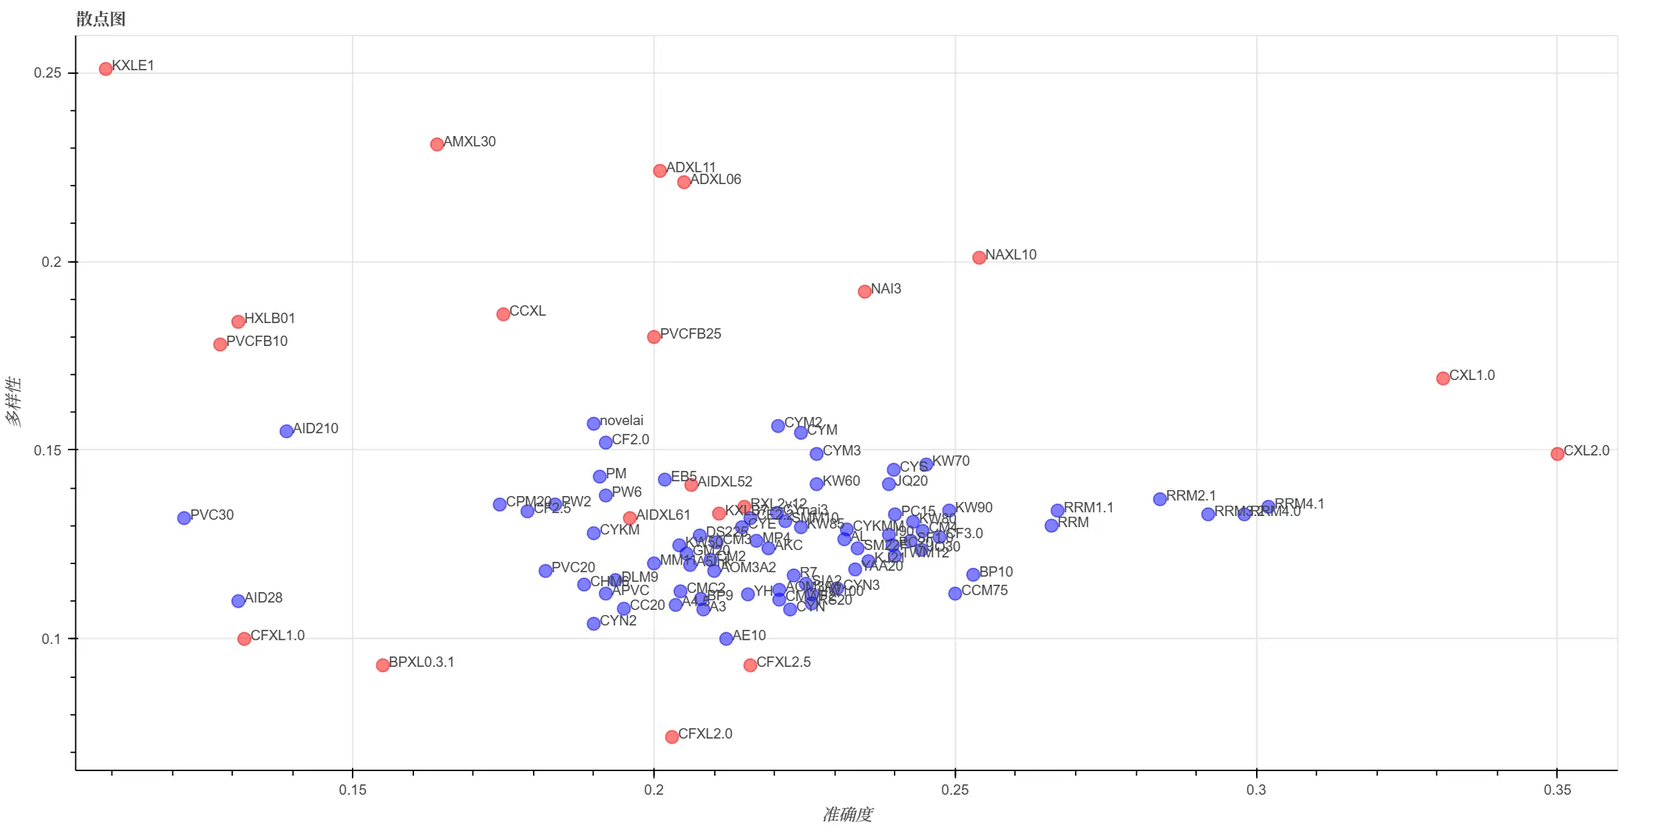
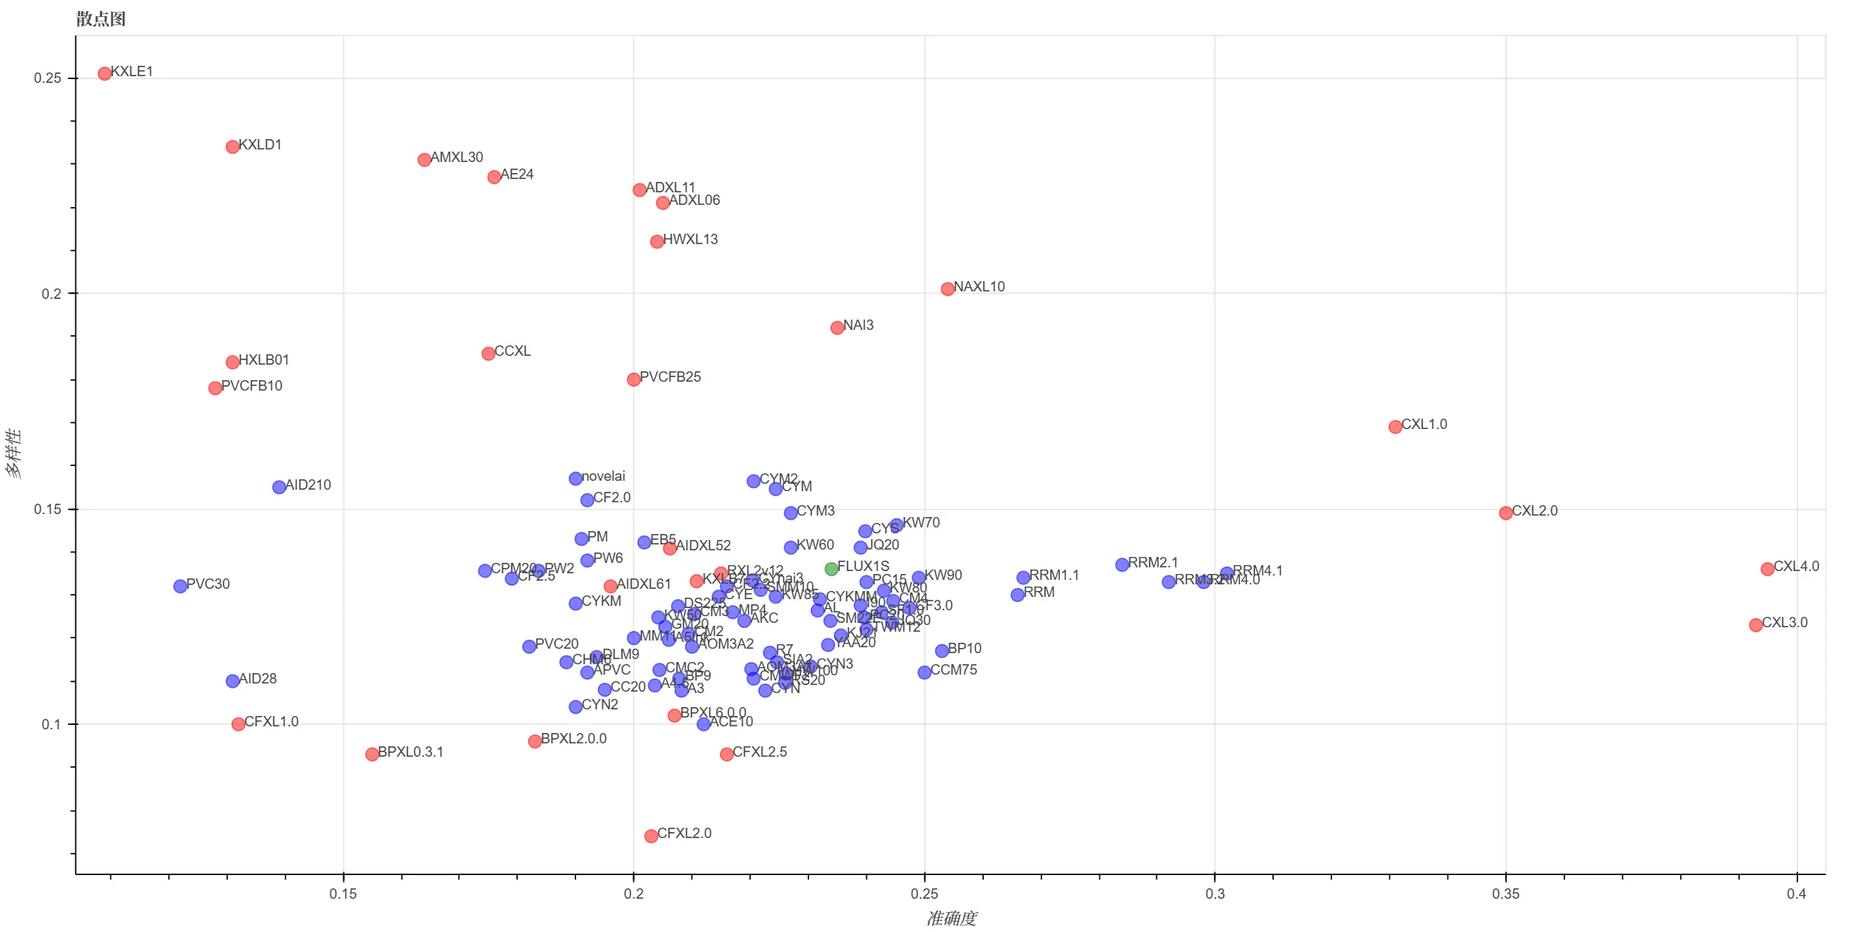
更新readme

diff --git a/readme.md b/readme.md
@@ -26,48 +26,48 @@
 <sub>
 <sub>
 
-|                          | A5Ink   | AL        | AOM3A1    | BP10      | CF3.0     | CM4       | CYS       | KW70    | SF1.0     | CXL3.0    | KXLB7     | NAI3      | NAXL10    |
-|:-------------------------|:--------|:----------|:----------|:----------|:----------|:----------|:----------|:--------|:----------|:----------|:----------|:----------|:----------|
-| 艺术破格                 | 0.151   | 0.132     | 0.092     | 0.188     | 0.18      | 0.147     | 0.125     | 0.121   | 0.195     | **0.379** | 0.18      | **0.213** | **0.331** |
-| 人物-动作                | 0.493   | 0.531     | 0.511     | 0.58      | 0.557     | 0.538     | 0.555     | 0.495   | 0.543     | **0.823** | 0.539     | **0.637** | **0.718** |
-| 人物-全身装饰            | 0.664   | 0.602     | 0.734     | 0.773     | 0.758     | 0.719     | 0.789     | 0.773   | 0.695     | **0.984** | **0.875** | 0.68      | **0.953** |
-| 人物-胸部                | 0.419   | 0.431     | 0.497     | 0.457     | 0.458     | 0.413     | 0.431     | 0.358   | 0.418     | **0.756** | 0.374     | **0.578** | **0.64**  |
-| 人物-衣装                | 0.751   | 0.777     | 0.783     | **0.804** | 0.802     | 0.802     | 0.773     | 0.718   | 0.785     | **0.895** | 0.771     | **0.804** | **0.816** |
-| 人物-摆位                | 0.514   | 0.509     | 0.491     | 0.604     | 0.616     | 0.535     | 0.562     | 0.528   | 0.613     | **0.838** | **0.701** | 0.56      | **0.701** |
-| 人物-耳朵                | 0.845   | 0.848     | 0.842     | 0.839     | 0.884     | 0.866     | 0.815     | 0.815   | **0.914** | **0.938** | 0.821     | 0.842     | **0.905** |
-| 人物-面部                | 0.436   | 0.426     | 0.414     | 0.503     | 0.514     | 0.458     | 0.419     | 0.432   | 0.462     | **0.784** | 0.457     | **0.584** | **0.672** |
-| 人物-头发                | 0.633   | 0.606     | 0.581     | 0.678     | 0.678     | 0.634     | 0.555     | 0.546   | 0.597     | **0.888** | 0.61      | **0.688** | **0.846** |
-| 人物-头部饰品            | 0.736   | 0.741     | 0.705     | 0.814     | 0.814     | 0.778     | 0.77      | 0.729   | **0.82**  | **0.911** | 0.782     | 0.715     | **0.868** |
-| 人物-类型                | 0.661   | 0.649     | 0.644     | 0.725     | 0.688     | 0.651     | 0.67      | 0.596   | 0.68      | **0.817** | **0.763** | 0.616     | **0.779** |
-| 人物-下身装饰            | 0.71    | 0.726     | 0.749     | 0.76      | **0.781** | 0.747     | 0.742     | 0.698   | 0.74      | **0.918** | 0.748     | 0.769     | **0.801** |
-| 人物-脖子                | 0.768   | 0.794     | 0.786     | 0.814     | 0.808     | **0.822** | 0.75      | 0.724   | 0.753     | **0.918** | 0.74      | 0.806     | **0.898** |
-| 人物-鞋袜                | 0.679   | 0.696     | 0.681     | 0.732     | 0.742     | 0.732     | 0.708     | 0.699   | 0.726     | **0.874** | 0.713     | **0.77**  | **0.818** |
-| 人物-上身装饰            | 0.728   | 0.769     | 0.737     | **0.79**  | 0.783     | 0.77      | 0.747     | 0.698   | 0.758     | **0.916** | 0.728     | 0.717     | **0.84**  |
-| 人文景观-建筑物     | 0.938   | **0.966** | 0.903     | 0.96      | 0.886     | 0.932     | 0.955     | 0.943   | **0.966** | 0.938     | **0.989** | 0.415     | **0.966** |
-| 人文景观-谷制品     | 0.688   | 0.713     | 0.713     | 0.825     | 0.8       | 0.787     | 0.938     | 0.825   | **1.0**   | **1.0**   | **1.0**   | 0.325     | **1.0**   |
-| 人文景观-饮料       | 0.836   | 0.859     | 0.781     | 0.898     | 0.812     | 0.844     | 0.914     | 0.844   | 0.938     | **0.961** | **0.977** | 0.586     | **0.945** |
-| 人文景观-水果       | 0.868   | 0.868     | 0.889     | 0.847     | 0.889     | 0.896     | 0.931     | 0.854   | **0.986** | 0.965     | **0.993** | 0.368     | **0.972** |
-| 人文景观-主食       | 0.762   | 0.787     | 0.725     | 0.825     | 0.8       | 0.775     | 0.875     | 0.838   | 0.825     | **1.0**   | **0.988** | 0.287     | **1.0**   |
-| 人文景观-肉类与海鲜 | 0.922   | 0.734     | 0.906     | 0.891     | **0.984** | 0.953     | 0.906     | 0.828   | **1.0**   | **1.0**   | **0.984** | 0.453     | **0.984** |
-| 人文景观-糖果零食   | 0.8     | 0.819     | 0.722     | 0.878     | 0.859     | 0.825     | 0.863     | 0.838   | **0.894** | **0.944** | 0.866     | 0.566     | **0.972** |
-| 人文景观-蔬菜与香料 | 0.938   | 0.906     | 0.896     | 0.969     | 0.938     | 0.885     | **0.979** | 0.948   | **0.979** | 0.969     | 0.896     | 0.802     | **1.0**   |
-| 人文景观-室内       | 0.991   | **1.0**   | 0.991     | **1.0**   | 0.92      | 0.991     | **1.0**   | 0.973   | 0.991     | **1.0**   | **1.0**   | 0.812     | **1.0**   |
-| 人文景观-室外       | **1.0** | **1.0**   | 0.958     | **1.0**   | **1.0**   | **1.0**   | **1.0**   | **1.0** | **1.0**   | 0.99      | **1.0**   | 0.417     | 0.99      |
-| 构图-背景                | 0.861   | 0.885     | 0.803     | **0.933** | 0.894     | 0.904     | 0.899     | 0.856   | 0.827     | **0.947** | 0.875     | 0.774     | **0.938** |
-| 构图-打码方式            | 0.151   | 0.219     | **0.359** | 0.198     | 0.219     | 0.135     | 0.312     | 0.151   | 0.193     | **0.391** | 0.266     | 0.245     | **0.339** |
-| 构图-色彩                | 0.442   | 0.388     | 0.304     | **0.721** | 0.704     | 0.517     | 0.421     | 0.358   | 0.492     | **0.738** | **0.787** | 0.613     | 0.542     |
-| 构图-构图方式            | 0.276   | 0.344     | 0.292     | 0.396     | 0.339     | 0.375     | 0.375     | 0.26    | 0.339     | **0.62**  | 0.328     | **0.526** | **0.604** |
-| 构图-制图特效            | 0.551   | 0.643     | 0.467     | 0.713     | **0.776** | 0.643     | 0.662     | 0.592   | 0.68      | **0.794** | 0.673     | 0.449     | **0.801** |
-| 构图-图片类型            | 0.435   | 0.386     | 0.332     | 0.416     | 0.383     | 0.397     | 0.41      | 0.429   | 0.351     | **0.617** | **0.448** | 0.435     | **0.573** |
-| 构图-视角                | 0.651   | 0.618     | 0.588     | **0.713** | 0.706     | 0.654     | 0.662     | 0.706   | 0.71      | **0.824** | 0.662     | 0.632     | **0.732** |
-| 构图-画风                | 0.221   | 0.138     | 0.192     | 0.275     | 0.283     | 0.2       | 0.229     | 0.217   | 0.175     | **0.471** | **0.533** | **0.483** | 0.425     |
-| 物品                     | 0.792   | 0.765     | 0.804     | 0.881     | 0.878     | **0.893** | 0.824     | 0.735   | 0.839     | **0.976** | 0.845     | 0.812     | **0.902** |
-| 自然景观-花卉            | 0.895   | 0.92      | 0.855     | **0.989** | 0.943     | 0.972     | 0.949     | 0.852   | 0.983     | **0.997** | **1.0**   | 0.668     | **0.989** |
-| 自然景观-室外       | 0.943   | 0.953     | 0.927     | **1.0**   | **0.995** | 0.964     | 0.958     | 0.969   | 0.99      | **0.995** | **1.0**   | 0.484     | 0.99      |
-| 自然景观-气象       | 0.891   | 0.922     | 0.87      | **0.974** | 0.87      | 0.885     | 0.906     | 0.891   | 0.901     | 0.964     | **1.0**   | 0.578     | **0.984** |
-| 限制级-成年限定          | 0.288   | 0.268     | **0.518** | 0.379     | 0.371     | 0.211     | 0.392     | 0.241   | 0.347     | **0.689** | 0.387     | 0.349     | **0.485** |
-| 限制级-限制级            | 0.504   | 0.444     | 0.597     | 0.532     | 0.58      | 0.442     | 0.539     | 0.403   | 0.442     | **0.735** | **0.621** | 0.457     | **0.619** |
-| 总体                     | 0.607   | 0.613     | 0.613     | **0.671** | 0.667     | 0.631     | 0.629     | 0.586   | 0.64      | **0.84**  | 0.652     | 0.635     | **0.765** |
+|                          | A5Ink   | AL        | AOM3A1    | BP10      | CF3.0     | CM4       | CYS       | FLUX1S    | KW70    | NAI3      | SF1.0     | CXL4.0    | KXLB7     | NAXL10    |
+|:-------------------------|:--------|:----------|:----------|:----------|:----------|:----------|:----------|:----------|:--------|:----------|:----------|:----------|:----------|:----------|
+| 艺术破格                 | 0.142   | 0.125     | 0.087     | 0.177     | 0.17      | 0.139     | 0.118     | 0.163     | 0.115   | **0.201** | 0.184     | **0.333** | 0.17      | **0.312** |
+| 人物-动作                | 0.49    | 0.527     | 0.507     | 0.576     | 0.553     | 0.534     | 0.551     | 0.43      | 0.491   | **0.632** | 0.54      | **0.831** | 0.535     | **0.713** |
+| 人物-全身装饰            | 0.664   | 0.602     | 0.734     | 0.773     | 0.758     | 0.719     | 0.789     | 0.555     | 0.773   | 0.68      | 0.695     | **0.992** | **0.875** | **0.953** |
+| 人物-胸部                | 0.419   | 0.431     | 0.497     | 0.457     | 0.458     | 0.413     | 0.431     | 0.229     | 0.358   | **0.578** | 0.418     | **0.765** | 0.374     | **0.64**  |
+| 人物-衣装                | 0.751   | 0.777     | 0.783     | **0.804** | 0.802     | 0.802     | 0.773     | 0.729     | 0.718   | **0.804** | 0.785     | **0.89**  | 0.771     | **0.816** |
+| 人物-摆位                | 0.514   | 0.509     | 0.491     | 0.604     | 0.616     | 0.535     | 0.562     | 0.458     | 0.528   | 0.56      | 0.613     | **0.831** | **0.701** | **0.701** |
+| 人物-耳朵                | 0.845   | 0.848     | 0.842     | 0.839     | 0.884     | 0.866     | 0.815     | 0.696     | 0.815   | 0.842     | **0.914** | **0.929** | 0.821     | **0.905** |
+| 人物-面部                | 0.434   | 0.423     | 0.412     | 0.5       | 0.511     | 0.456     | 0.416     | 0.324     | 0.43    | **0.58**  | 0.459     | **0.771** | 0.455     | **0.668** |
+| 人物-头发                | 0.633   | 0.606     | 0.581     | 0.678     | 0.678     | 0.634     | 0.555     | 0.59      | 0.546   | **0.688** | 0.597     | **0.866** | 0.61      | **0.846** |
+| 人物-头部饰品            | 0.736   | 0.741     | 0.705     | 0.814     | 0.814     | 0.778     | 0.77      | 0.682     | 0.729   | 0.715     | **0.82**  | **0.906** | 0.782     | **0.868** |
+| 人物-类型                | 0.651   | 0.639     | 0.634     | 0.713     | 0.677     | 0.641     | 0.66      | 0.588     | 0.587   | 0.607     | 0.669     | **0.81**  | **0.751** | **0.767** |
+| 人物-下身装饰            | 0.71    | 0.726     | 0.749     | 0.76      | **0.781** | 0.747     | 0.742     | 0.565     | 0.698   | 0.769     | 0.74      | **0.9**   | 0.748     | **0.801** |
+| 人物-脖子                | 0.768   | 0.794     | 0.786     | 0.814     | 0.808     | **0.822** | 0.75      | 0.674     | 0.724   | 0.806     | 0.753     | **0.931** | 0.74      | **0.898** |
+| 人物-鞋袜                | 0.679   | 0.696     | 0.681     | 0.732     | 0.742     | 0.732     | 0.708     | 0.628     | 0.699   | **0.77**  | 0.726     | **0.878** | 0.713     | **0.818** |
+| 人物-上身装饰            | 0.728   | 0.769     | 0.737     | **0.79**  | 0.783     | 0.77      | 0.747     | 0.632     | 0.698   | 0.717     | 0.758     | **0.893** | 0.728     | **0.84**  |
+| 人文景观-建筑物     | 0.938   | **0.966** | 0.903     | 0.96      | 0.886     | 0.932     | 0.955     | **0.977** | 0.943   | 0.415     | **0.966** | 0.955     | **0.989** | **0.966** |
+| 人文景观-谷制品     | 0.688   | 0.713     | 0.713     | 0.825     | 0.8       | 0.787     | 0.938     | 0.738     | 0.825   | 0.325     | **1.0**   | **1.0**   | **1.0**   | **1.0**   |
+| 人文景观-饮料       | 0.836   | 0.859     | 0.781     | 0.898     | 0.812     | 0.844     | 0.914     | 0.82      | 0.844   | 0.586     | 0.938     | **0.953** | **0.977** | **0.945** |
+| 人文景观-水果       | 0.868   | 0.868     | 0.889     | 0.847     | 0.889     | 0.896     | 0.931     | 0.944     | 0.854   | 0.368     | **0.986** | 0.951     | **0.993** | **0.972** |
+| 人文景观-主食       | 0.762   | 0.787     | 0.725     | 0.825     | 0.8       | 0.775     | 0.875     | 0.8       | 0.838   | 0.287     | 0.825     | **1.0**   | **0.988** | **1.0**   |
+| 人文景观-肉类与海鲜 | 0.922   | 0.734     | 0.906     | 0.891     | **0.984** | 0.953     | 0.906     | **1.0**   | 0.828   | 0.453     | **1.0**   | **0.984** | **0.984** | **0.984** |
+| 人文景观-糖果零食   | 0.8     | 0.819     | 0.722     | 0.878     | 0.859     | 0.825     | 0.863     | 0.775     | 0.838   | 0.566     | **0.894** | **0.953** | 0.866     | **0.972** |
+| 人文景观-蔬菜与香料 | 0.938   | 0.906     | 0.896     | 0.969     | 0.938     | 0.885     | **0.979** | 0.833     | 0.948   | 0.802     | **0.979** | 0.927     | 0.896     | **1.0**   |
+| 人文景观-室内       | 0.991   | **1.0**   | 0.991     | **1.0**   | 0.92      | 0.991     | **1.0**   | 0.991     | 0.973   | 0.812     | 0.991     | 0.991     | **1.0**   | **1.0**   |
+| 人文景观-室外       | **1.0** | **1.0**   | 0.958     | **1.0**   | **1.0**   | **1.0**   | **1.0**   | **1.0**   | **1.0** | 0.417     | **1.0**   | 0.99      | **1.0**   | 0.99      |
+| 构图-背景                | 0.861   | 0.885     | 0.803     | **0.933** | 0.894     | 0.904     | 0.899     | 0.784     | 0.856   | 0.774     | 0.827     | **0.918** | 0.875     | **0.938** |
+| 构图-打码方式            | 0.151   | 0.219     | **0.359** | 0.198     | 0.219     | 0.135     | 0.312     | 0.021     | 0.151   | 0.245     | 0.193     | **0.396** | 0.266     | **0.339** |
+| 构图-色彩                | 0.414   | 0.363     | 0.285     | **0.676** | **0.66**  | 0.484     | 0.395     | 0.637     | 0.336   | 0.574     | 0.461     | 0.602     | **0.738** | 0.508     |
+| 构图-构图方式            | 0.276   | 0.344     | 0.292     | 0.396     | 0.339     | 0.375     | 0.375     | 0.193     | 0.26    | **0.526** | 0.339     | **0.599** | 0.328     | **0.604** |
+| 构图-制图特效            | 0.551   | 0.643     | 0.467     | 0.713     | **0.776** | 0.643     | 0.662     | 0.669     | 0.592   | 0.449     | 0.68      | **0.827** | 0.673     | **0.801** |
+| 构图-图片类型            | 0.417   | 0.37      | 0.318     | 0.398     | 0.367     | 0.38      | 0.393     | 0.242     | 0.411   | 0.417     | 0.336     | **0.591** | **0.432** | **0.549** |
+| 构图-视角                | 0.651   | 0.618     | 0.588     | **0.713** | 0.706     | 0.654     | 0.662     | 0.559     | 0.706   | 0.632     | 0.71      | **0.809** | 0.662     | **0.732** |
+| 构图-画风                | 0.221   | 0.138     | 0.192     | 0.275     | 0.283     | 0.2       | 0.229     | 0.275     | 0.217   | **0.483** | 0.175     | **0.487** | **0.533** | 0.425     |
+| 物品                     | 0.792   | 0.765     | 0.804     | 0.881     | 0.878     | **0.893** | 0.824     | 0.741     | 0.735   | 0.812     | 0.839     | **0.976** | 0.845     | **0.902** |
+| 自然景观-花卉            | 0.895   | 0.92      | 0.855     | **0.989** | 0.943     | 0.972     | 0.949     | 0.886     | 0.852   | 0.668     | 0.983     | **0.991** | **1.0**   | **0.989** |
+| 自然景观-室外       | 0.943   | 0.953     | 0.927     | **1.0**   | **0.995** | 0.964     | 0.958     | 0.974     | 0.969   | 0.484     | 0.99      | **0.995** | **1.0**   | 0.99      |
+| 自然景观-气象       | 0.891   | 0.922     | 0.87      | **0.974** | 0.87      | 0.885     | 0.906     | 0.917     | 0.891   | 0.578     | 0.901     | 0.953     | **1.0**   | **0.984** |
+| 限制级-成年限定          | 0.288   | 0.268     | **0.518** | 0.379     | 0.371     | 0.211     | 0.392     | 0.044     | 0.241   | 0.349     | 0.347     | **0.679** | 0.387     | **0.485** |
+| 限制级-限制级            | 0.504   | 0.444     | 0.597     | 0.532     | 0.58      | 0.442     | 0.539     | 0.162     | 0.403   | 0.457     | 0.442     | **0.707** | **0.621** | **0.619** |
+| 总体                     | 0.605   | 0.61      | 0.61      | **0.669** | 0.664     | 0.628     | 0.626     | 0.527     | 0.583   | 0.632     | 0.638     | **0.831** | 0.65      | **0.761** |
 
 </sub>
 </sub>
@@ -89,15 +89,15 @@
 <sub>
 <sub>
 
-|     |   A5Ink |    AL |   AOM3A1 | BP10      | CF3.0     |   CM4 |   CYS |   KW70 |   SF1.0 | CXL3.0    |   KXLB7 | NAI3      | NAXL10    |
-|----:|--------:|------:|---------:|:----------|:----------|------:|------:|-------:|--------:|:----------|--------:|:----------|:----------|
-|   2 |   0.477 | 0.497 |    0.481 | 0.546     | 0.54      | 0.513 | 0.513 |  0.487 |   0.527 | **0.703** |   0.494 | **0.576** | **0.616** |
-|   4 |   0.431 | 0.448 |    0.439 | 0.484     | 0.482     | 0.465 | 0.461 |  0.454 |   0.473 | **0.682** |   0.451 | **0.539** | **0.556** |
-|   8 |   0.346 | 0.381 |    0.363 | 0.409     | 0.406     | 0.391 | 0.385 |  0.395 |   0.393 | **0.608** |   0.375 | **0.459** | **0.464** |
-|  16 |   0.275 | 0.303 |    0.287 | 0.333     | 0.328     | 0.324 | 0.312 |  0.317 |   0.318 | **0.508** |   0.302 | **0.352** | **0.356** |
-|  32 |   0.207 | 0.232 |    0.221 | **0.253** | 0.245     | 0.245 | 0.24  |  0.245 |   0.243 | **0.384** |   0.212 | 0.235     | **0.254** |
-|  64 |   0.152 | 0.171 |    0.166 | **0.186** | **0.181** | 0.179 | 0.179 |  0.179 |   0.176 | **0.294** |   0.154 | 0.15      | 0.178     |
-| 128 |   0.118 | 0.131 |    0.129 | **0.144** | **0.142** | 0.138 | 0.139 |  0.138 |   0.136 | **0.221** |   0.121 | 0.106     | 0.134     |
+|     |   A5Ink |    AL |   AOM3A1 | BP10      |   CF3.0 |   CM4 |   CYS | FLUX1S    |   KW70 | NAI3      |   SF1.0 | CXL4.0    |   KXLB7 | NAXL10    |
+|----:|--------:|------:|---------:|:----------|--------:|------:|------:|:----------|-------:|:----------|--------:|:----------|--------:|:----------|
+|   2 |   0.477 | 0.497 |    0.481 | 0.546     |   0.54  | 0.513 | 0.513 | 0.428     |  0.487 | **0.576** |   0.527 | **0.705** |   0.494 | **0.616** |
+|   4 |   0.431 | 0.448 |    0.439 | 0.484     |   0.482 | 0.465 | 0.461 | 0.386     |  0.454 | **0.539** |   0.473 | **0.674** |   0.451 | **0.556** |
+|   8 |   0.346 | 0.381 |    0.363 | 0.409     |   0.406 | 0.391 | 0.385 | 0.323     |  0.395 | **0.459** |   0.393 | **0.615** |   0.375 | **0.464** |
+|  16 |   0.275 | 0.303 |    0.287 | 0.333     |   0.328 | 0.324 | 0.312 | 0.285     |  0.317 | **0.352** |   0.318 | **0.513** |   0.302 | **0.356** |
+|  32 |   0.207 | 0.232 |    0.221 | **0.253** |   0.245 | 0.245 | 0.24  | 0.234     |  0.245 | 0.235     |   0.243 | **0.395** |   0.212 | **0.254** |
+|  64 |   0.152 | 0.171 |    0.166 | **0.186** |   0.181 | 0.179 | 0.179 | **0.187** |  0.179 | 0.15      |   0.176 | **0.3**   |   0.154 | 0.178     |
+| 128 |   0.118 | 0.131 |    0.129 | **0.144** |   0.142 | 0.138 | 0.139 | **0.144** |  0.138 | 0.106     |   0.136 | **0.228** |   0.121 | 0.134     |
 
 </sub>
 </sub>
@@ -111,15 +111,15 @@
 <sub>
 <sub>
 
-|     |   A5Ink |    AL |   AOM3A1 |   BP10 |   CF3.0 |   CM4 | CYS       | KW70      |   SF1.0 |   CXL3.0 |   KXLB7 | NAI3      | NAXL10    |
-|----:|--------:|------:|---------:|-------:|--------:|------:|:----------|:----------|--------:|---------:|--------:|:----------|:----------|
-|   2 |   0.147 | 0.142 |    0.146 |  0.13  |   0.136 | 0.143 | 0.147     | **0.148** |   0.137 |    0.127 |   0.12  | **0.184** | **0.192** |
-|   4 |   0.136 | 0.132 |    0.131 |  0.121 |   0.129 | 0.134 | 0.143     | **0.144** |   0.129 |    0.121 |   0.126 | **0.178** | **0.184** |
-|   8 |   0.129 | 0.13  |    0.122 |  0.117 |   0.126 | 0.127 | **0.143** | 0.136     |   0.126 |    0.119 |   0.13  | **0.183** | **0.185** |
-|  16 |   0.129 | 0.125 |    0.116 |  0.115 |   0.125 | 0.12  | **0.143** | 0.137     |   0.123 |    0.12  |   0.13  | **0.186** | **0.189** |
-|  32 |   0.121 | 0.126 |    0.112 |  0.117 |   0.127 | 0.127 | 0.145     | **0.146** |   0.126 |    0.124 |   0.134 | **0.192** | **0.201** |
-|  64 |   0.131 | 0.131 |    0.112 |  0.121 |   0.135 | 0.13  | **0.154** | 0.151     |   0.14  |    0.135 |   0.141 | **0.203** | **0.211** |
-| 128 |   0.127 | 0.132 |    0.11  |  0.125 |   0.142 | 0.137 | 0.159     | **0.162** |   0.143 |    0.131 |   0.135 | **0.194** | **0.215** |
+|     |   A5Ink |    AL |   AOM3A1 |   BP10 |   CF3.0 |   CM4 | CYS       |   FLUX1S | KW70      | NAI3      |   SF1.0 | CXL4.0    |   KXLB7 | NAXL10    |
+|----:|--------:|------:|---------:|-------:|--------:|------:|:----------|---------:|:----------|:----------|--------:|:----------|--------:|:----------|
+|   2 |   0.147 | 0.142 |    0.146 |  0.13  |   0.136 | 0.143 | 0.147     |    0.15  | 0.148     | **0.184** |   0.137 | **0.152** |   0.12  | **0.192** |
+|   4 |   0.136 | 0.132 |    0.131 |  0.121 |   0.129 | 0.134 | 0.143     |    0.131 | **0.144** | **0.178** |   0.129 | 0.138     |   0.126 | **0.184** |
+|   8 |   0.129 | 0.13  |    0.122 |  0.117 |   0.126 | 0.127 | **0.143** |    0.124 | 0.136     | **0.183** |   0.126 | 0.136     |   0.13  | **0.185** |
+|  16 |   0.129 | 0.125 |    0.116 |  0.115 |   0.125 | 0.12  | **0.143** |    0.131 | 0.137     | **0.186** |   0.123 | 0.131     |   0.13  | **0.189** |
+|  32 |   0.121 | 0.126 |    0.112 |  0.117 |   0.127 | 0.127 | 0.145     |    0.136 | **0.146** | **0.192** |   0.126 | 0.136     |   0.134 | **0.201** |
+|  64 |   0.131 | 0.131 |    0.112 |  0.121 |   0.135 | 0.13  | **0.154** |    0.143 | 0.151     | **0.203** |   0.14  | 0.149     |   0.141 | **0.211** |
+| 128 |   0.127 | 0.132 |    0.11  |  0.125 |   0.142 | 0.137 | 0.159     |    0.147 | **0.162** | **0.194** |   0.143 | 0.14      |   0.135 | **0.215** |
 
 </sub>
 </sub>
@@ -140,16 +140,16 @@
 <sub>
 <sub>
 
-|          | A5Ink   | AL     | AOM3A1   | BP10   | CF3.0   | CM4    | CYS    | KW70    | SF1.0   | CXL3.0   | KXLB7   | NAI3    | NAXL10   |
-|:---------|:--------|:-------|:---------|:-------|:--------|:-------|:-------|:--------|:--------|:---------|:--------|:--------|:---------|
-| 蔚蓝档案 | 0/17    | 0/17   | 0/17     | 0/17   | 0/17    | 0/17   | 0/17   | 0/17    | 0/17    | 16/17    | 0/17    | 15/17   | 16/17    |
-| fate     | 4/11    | 5/11   | 4/11     | 5/11   | 4/11    | 5/11   | 3/11   | 5/11    | 5/11    | 9/11     | 2/11    | 10/11   | 9/11     |
-| 原神     | 4/13    | 5/13   | 6/13     | 5/13   | 6/13    | 6/13   | 3/13   | 6/13    | 5/13    | 13/13    | 0/13    | 13/13   | 13/13    |
-| hololive | 0/18    | 1/18   | 0/18     | 2/18   | 1/18    | 3/18   | 0/18   | 1/18    | 0/18    | 15/18    | 0/18    | 14/18   | 16/18    |
-| 偶像大师 | 1/9     | 1/9    | 1/9      | 2/9    | 2/9     | 3/9    | 0/9    | 4/9     | 1/9     | 2/9      | 0/9     | 8/9     | 2/9      |
-| 舰娘     | 17/31   | 15/31  | 16/31    | 16/31  | 16/31   | 17/31  | 21/31  | 21/31   | 19/31   | 2/31     | 0/31    | 30/31   | 0/31     |
-| 东方     | 30/52   | 27/52  | 27/52    | 31/52  | 33/52   | 35/52  | 31/52  | 38/52   | 37/52   | 12/52    | 9/52    | 50/52   | 7/52     |
-| 总体     | 79/221  | 77/221 | 75/221   | 89/221 | 90/221  | 96/221 | 81/221 | 104/221 | 93/221  | 115/221  | 21/221  | 194/221 | 102/221  |
+|          | A5Ink   | AL     | AOM3A1   | BP10   | CF3.0   | CM4    | CYS    | FLUX1S   | KW70    | NAI3    | SF1.0   | CXL4.0   | KXLB7   | NAXL10   |
+|:---------|:--------|:-------|:---------|:-------|:--------|:-------|:-------|:---------|:--------|:--------|:--------|:---------|:--------|:---------|
+| 蔚蓝档案 | 0/17    | 0/17   | 0/17     | 0/17   | 0/17    | 0/17   | 0/17   | 0/17     | 0/17    | 15/17   | 0/17    | 16/17    | 0/17    | 16/17    |
+| fate     | 4/11    | 5/11   | 4/11     | 5/11   | 4/11    | 5/11   | 3/11   | 0/11     | 5/11    | 10/11   | 5/11    | 10/11    | 2/11    | 9/11     |
+| 原神     | 4/13    | 5/13   | 6/13     | 5/13   | 6/13    | 6/13   | 3/13   | 0/13     | 6/13    | 13/13   | 5/13    | 13/13    | 0/13    | 13/13    |
+| hololive | 0/18    | 1/18   | 0/18     | 2/18   | 1/18    | 3/18   | 0/18   | 0/18     | 1/18    | 14/18   | 0/18    | 16/18    | 0/18    | 16/18    |
+| 偶像大师 | 1/9     | 1/9    | 1/9      | 2/9    | 2/9     | 3/9    | 0/9    | 0/9      | 4/9     | 8/9     | 1/9     | 6/9      | 0/9     | 2/9      |
+| 舰娘     | 17/31   | 15/31  | 16/31    | 16/31  | 16/31   | 17/31  | 21/31  | 0/31     | 21/31   | 30/31   | 19/31   | 17/31    | 0/31    | 0/31     |
+| 东方     | 30/52   | 27/52  | 27/52    | 31/52  | 33/52   | 35/52  | 31/52  | 1/52     | 38/52   | 50/52   | 37/52   | 34/52    | 9/52    | 7/52     |
+| 总体     | 79/221  | 77/221 | 75/221   | 89/221 | 90/221  | 96/221 | 81/221 | 4/221    | 104/221 | 194/221 | 93/221  | 167/221  | 21/221  | 102/221  |
 
 </sub>
 </sub>
